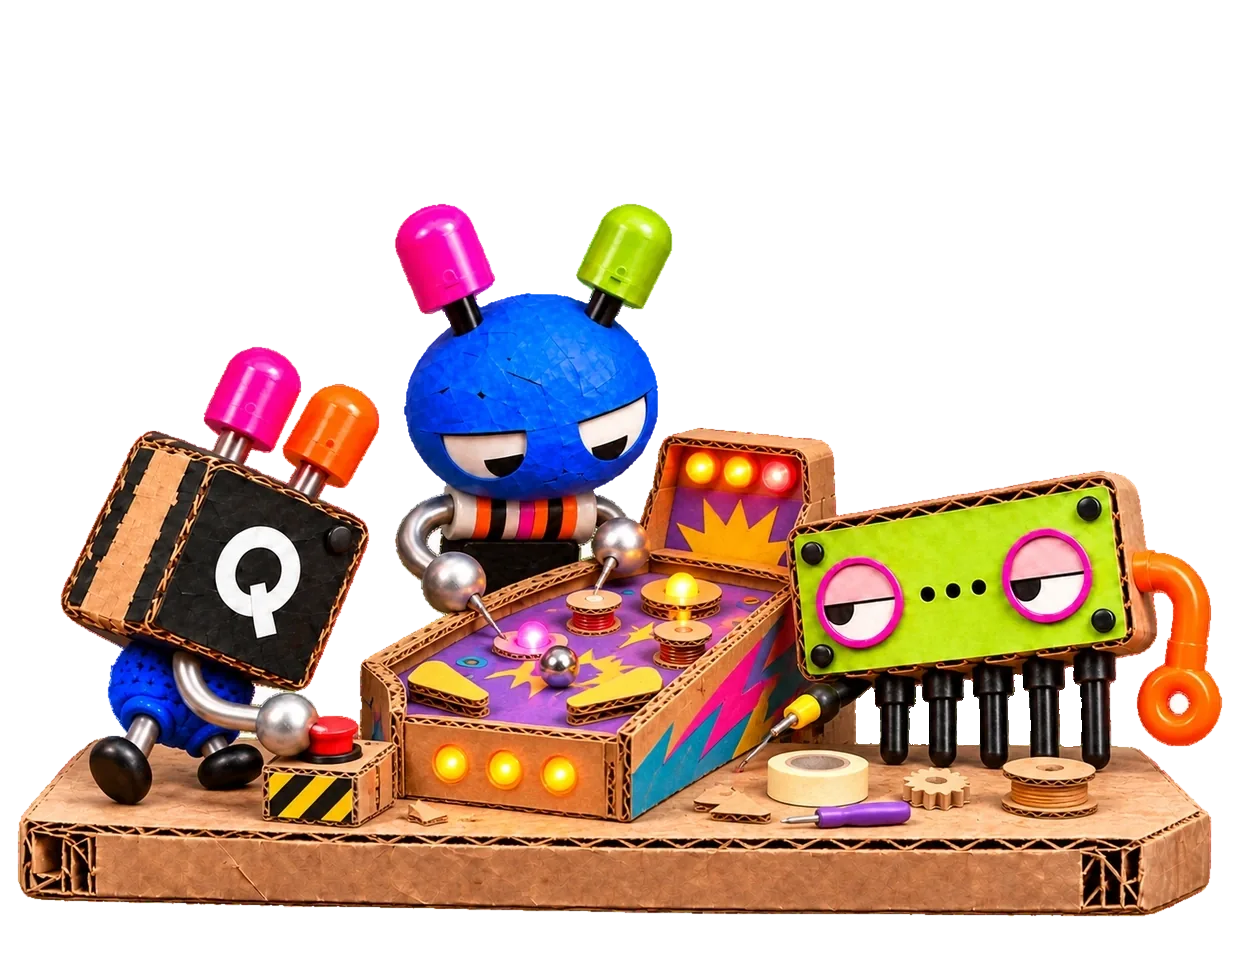
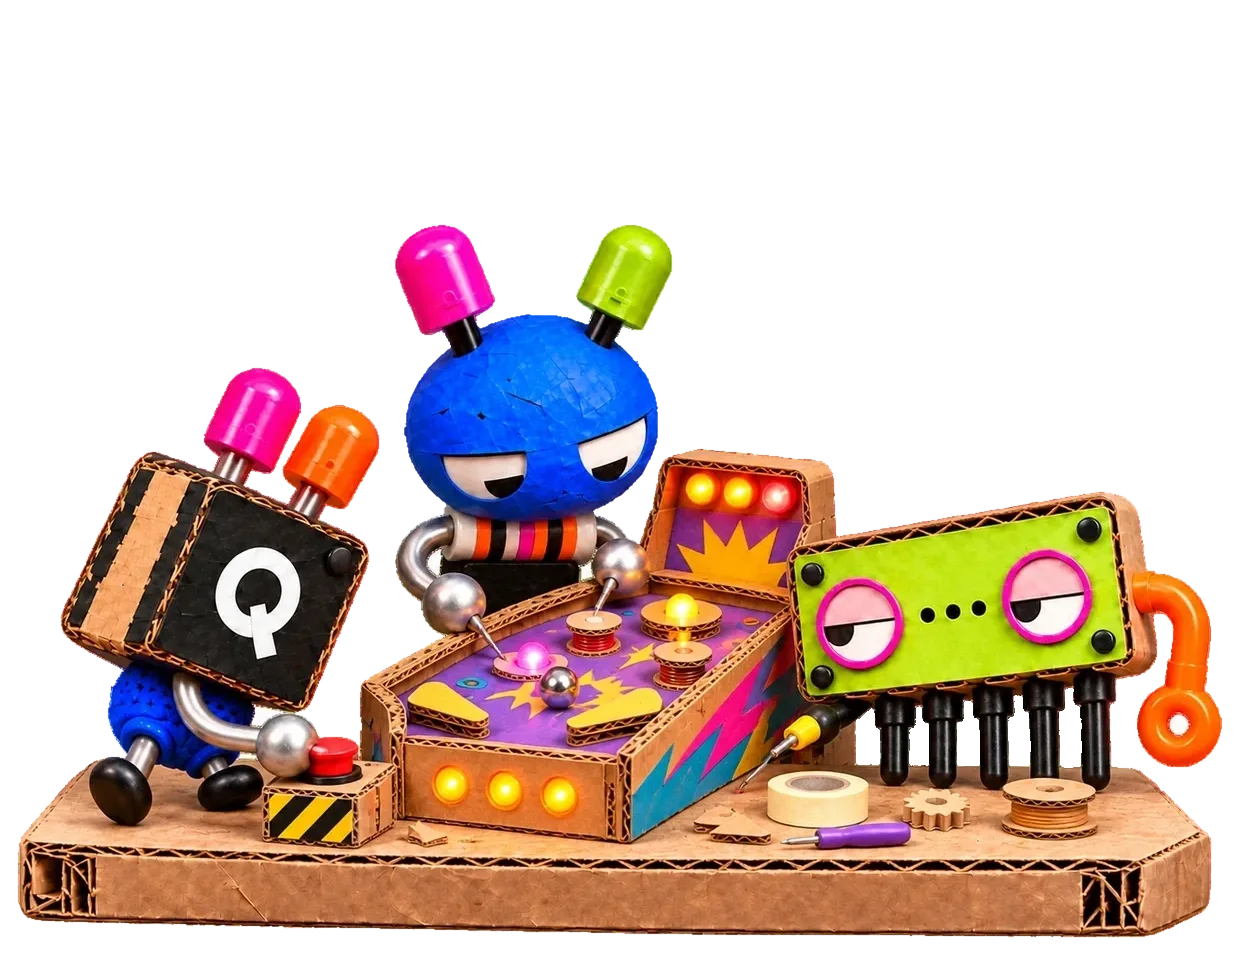
Align all 11 rotating hero mascots to consistent bottom baseline, preserve CSS

diff --git a/website/qwertylabs/script.js b/website/qwertylabs/script.js
@@ -270,17 +270,17 @@
   if (!hero) return;
 
   const scenes = [
-    { id: 'robot-workshop', src: 'img/hero-rotation/robot-workshop.webp', alt: 'Q Key, Six Pin and D1 working together in a cardboard robot workshop' },
-    { id: 'control-console', src: 'img/hero-rotation/control-console.webp', alt: 'Q Key, Six Pin and D1 using a handmade cardboard control console' },
-    { id: 'smart-speaker', src: 'img/hero-rotation/smart-speaker.webp', alt: 'Q Key, Six Pin and D1 experimenting with a cardboard smart speaker' },
-    { id: 'weather-station', src: 'img/hero-rotation/weather-station.webp', alt: 'Q Key, Six Pin and D1 testing an electronic weather station' },
-    { id: 'vr-tech-workshop', src: 'img/hero-rotation/vr-tech-workshop.webp', alt: 'Q Key, Six Pin and D1 trying out a handmade VR headset' },
-    { id: 'robot-arm', src: 'img/hero-rotation/robot-arm.webp', alt: 'Q Key, Six Pin and D1 operating a cardboard robotic arm' },
-    { id: 'drawing-tablet', src: 'img/hero-rotation/drawing-tablet.webp', alt: 'Q Key, Six Pin and D1 drawing together on a tablet' },
-    { id: 'colourful-pinball', src: 'img/hero-rotation/colourful-pinball.webp', alt: 'Q Key, Six Pin and D1 playing a colourful cardboard pinball game' },
-    { id: 'satellite-link', src: 'img/hero-rotation/satellite-link.webp', alt: 'Q Key, Six Pin and D1 building a cardboard satellite communication project' },
-    { id: 'rocket-control', src: 'img/hero-rotation/rocket-control.webp', alt: 'Q Key, Six Pin and D1 using a handmade rocket control station' },
-    { id: 'periscope', src: 'img/hero-rotation/periscope.webp', alt: 'Q Key, Six Pin and D1 making a cardboard periscope machine' }
+    { id: 'robot-workshop', src: 'img/hero-rotation/robot-workshop.webp?v=20261118-bottom-align', alt: 'Q Key, Six Pin and D1 working together in a cardboard robot workshop' },
+    { id: 'control-console', src: 'img/hero-rotation/control-console.webp?v=20261118-bottom-align', alt: 'Q Key, Six Pin and D1 using a handmade cardboard control console' },
+    { id: 'smart-speaker', src: 'img/hero-rotation/smart-speaker.webp?v=20261118-bottom-align', alt: 'Q Key, Six Pin and D1 experimenting with a cardboard smart speaker' },
+    { id: 'weather-station', src: 'img/hero-rotation/weather-station.webp?v=20261118-bottom-align', alt: 'Q Key, Six Pin and D1 testing an electronic weather station' },
+    { id: 'vr-tech-workshop', src: 'img/hero-rotation/vr-tech-workshop.webp?v=20261118-bottom-align', alt: 'Q Key, Six Pin and D1 trying out a handmade VR headset' },
+    { id: 'robot-arm', src: 'img/hero-rotation/robot-arm.webp?v=20261118-bottom-align', alt: 'Q Key, Six Pin and D1 operating a cardboard robotic arm' },
+    { id: 'drawing-tablet', src: 'img/hero-rotation/drawing-tablet.webp?v=20261118-bottom-align', alt: 'Q Key, Six Pin and D1 drawing together on a tablet' },
+    { id: 'colourful-pinball', src: 'img/hero-rotation/colourful-pinball.webp?v=20261118-bottom-align', alt: 'Q Key, Six Pin and D1 playing a colourful cardboard pinball game' },
+    { id: 'satellite-link', src: 'img/hero-rotation/satellite-link.webp?v=20261118-bottom-align', alt: 'Q Key, Six Pin and D1 building a cardboard satellite communication project' },
+    { id: 'rocket-control', src: 'img/hero-rotation/rocket-control.webp?v=20261118-bottom-align', alt: 'Q Key, Six Pin and D1 using a handmade rocket control station' },
+    { id: 'periscope', src: 'img/hero-rotation/periscope.webp?v=20261118-bottom-align', alt: 'Q Key, Six Pin and D1 making a cardboard periscope machine' }
   ];
   const storageKey = 'qwertylabs-hero-production-bag-v1';
   const ids = scenes.map(scene => scene.id);

diff --git a/website/qwertylabs/pwyw.html b/website/qwertylabs/pwyw.html
@@ -21,7 +21,7 @@
     >
     <link rel="stylesheet" href="style.css?v=20261118-pwyw-spacing2">
     <script src="brand.js?v=20261118-favicon" defer></script>
-    <script src="script.js?v=20261118-hero-11" defer></script>
+    <script src="script.js?v=20261118-hero-bottom" defer></script>
   </head>
   <body>
     <a class="skip" href="#main">Skip to content</a>

diff --git a/website/qwertylabs/javascript-by-tiarna.html b/website/qwertylabs/javascript-by-tiarna.html
@@ -21,7 +21,7 @@
     >
     <link rel="stylesheet" href="style.css?v=20261118-nav-js">
     <script src="brand.js?v=20261118-favicon" defer></script>
-    <script src="script.js?v=20261118-hero-11" defer></script>
+    <script src="script.js?v=20261118-hero-bottom" defer></script>
   </head>
   <body>
     <a class="skip" href="#main">Skip to content</a>

diff --git a/website/qwertylabs/a-kids-pov.html b/website/qwertylabs/a-kids-pov.html
@@ -21,7 +21,7 @@
     >
     <link rel="stylesheet" href="style.css?v=20261118-nav">
     <script src="brand.js?v=20261118-favicon" defer></script>
-    <script src="script.js?v=20261118-hero-11" defer></script>
+    <script src="script.js?v=20261118-hero-bottom" defer></script>
   </head>
   <body>
     <a class="skip" href="#main">Skip to content</a>

diff --git a/website/qwertylabs/adults.html b/website/qwertylabs/adults.html
@@ -21,7 +21,7 @@
     >
     <link rel="stylesheet" href="style.css?v=20261118-nav">
     <script src="brand.js?v=20261118-favicon" defer></script>
-    <script src="script.js?v=20261118-hero-11" defer></script>
+    <script src="script.js?v=20261118-hero-bottom" defer></script>
   </head>
   <body>
     <a class="skip" href="#main">Skip to content</a>

diff --git a/website/qwertylabs/booking-terms.html b/website/qwertylabs/booking-terms.html
@@ -18,7 +18,7 @@
     >
     <link rel="stylesheet" href="style.css?v=20261118-nav">
     <script src="brand.js?v=20261118-favicon" defer></script>
-    <script src="script.js?v=20261118-hero-11" defer></script>
+    <script src="script.js?v=20261118-hero-bottom" defer></script>
   </head>
   <body>
     <a class="skip" href="#main">Skip to content</a>

diff --git a/website/qwertylabs/child-safety.html b/website/qwertylabs/child-safety.html
@@ -18,7 +18,7 @@
     >
     <link rel="stylesheet" href="style.css?v=20261118-nav">
     <script src="brand.js?v=20261118-favicon" defer></script>
-    <script src="script.js?v=20261118-hero-11" defer></script>
+    <script src="script.js?v=20261118-hero-bottom" defer></script>
   </head>
   <body>
     <a class="skip" href="#main">Skip to content</a>

diff --git a/website/qwertylabs/coding-camp.html b/website/qwertylabs/coding-camp.html
@@ -21,7 +21,7 @@
     >
     <link rel="stylesheet" href="style.css?v=20261118-nav">
     <script src="brand.js?v=20261118-favicon" defer></script>
-    <script src="script.js?v=20261118-hero-11" defer></script>
+    <script src="script.js?v=20261118-hero-bottom" defer></script>
   </head>
   <body>
     <a class="skip" href="#main">Skip to content</a>

diff --git a/website/qwertylabs/index.html b/website/qwertylabs/index.html
@@ -21,7 +21,7 @@
     >
     <link rel="stylesheet" href="style.css?v=20261118-nav">
     <script src="brand.js?v=20261118-favicon" defer></script>
-    <script src="script.js?v=20261118-hero-11" defer></script>
+    <script src="script.js?v=20261118-hero-bottom" defer></script>
   </head>
   <body>
     <a class="skip" href="#main">Skip to content</a>

diff --git a/website/qwertylabs/kids-coding-classes.html b/website/qwertylabs/kids-coding-classes.html
@@ -21,7 +21,7 @@
     >
     <link rel="stylesheet" href="style.css?v=20261118-nav">
     <script src="brand.js?v=20261118-favicon" defer></script>
-    <script src="script.js?v=20261118-hero-11" defer></script>
+    <script src="script.js?v=20261118-hero-bottom" defer></script>
   </head>
   <body>
     <a class="skip" href="#main">Skip to content</a>

diff --git a/website/qwertylabs/kids.html b/website/qwertylabs/kids.html
@@ -21,7 +21,7 @@
     >
     <link rel="stylesheet" href="style.css?v=20261118-nav">
     <script src="brand.js?v=20261118-favicon" defer></script>
-    <script src="script.js?v=20261118-hero-11" defer></script>
+    <script src="script.js?v=20261118-hero-bottom" defer></script>
   </head>
   <body>
     <a class="skip" href="#main">Skip to content</a>

diff --git a/website/qwertylabs/privacy.html b/website/qwertylabs/privacy.html
@@ -18,7 +18,7 @@
     >
     <link rel="stylesheet" href="style.css?v=20261118-nav">
     <script src="brand.js?v=20261118-favicon" defer></script>
-    <script src="script.js?v=20261118-hero-11" defer></script>
+    <script src="script.js?v=20261118-hero-bottom" defer></script>
   </head>
   <body>
     <a class="skip" href="#main">Skip to content</a>
